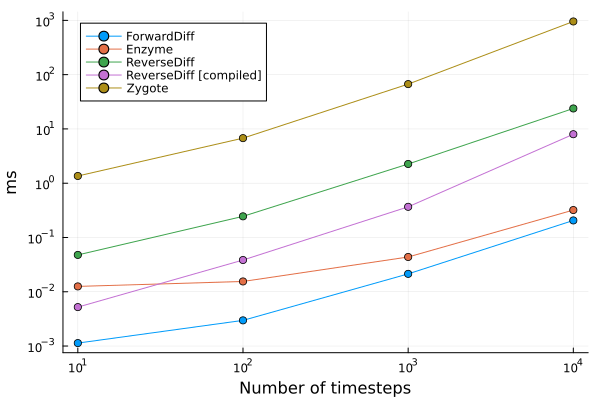
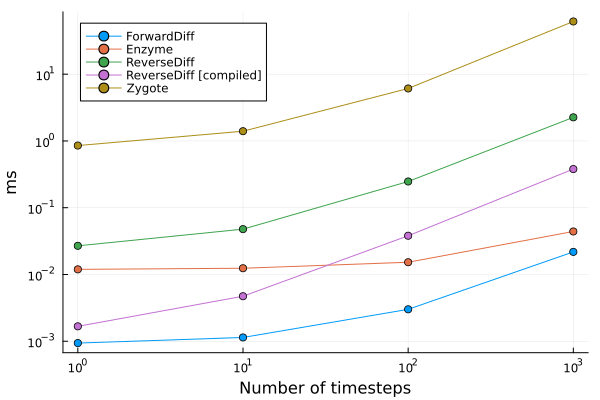
moved code to a module to make things nicer

diff --git a/README.md b/README.md
@@ -4,30 +4,35 @@ This is a quick and dirty set up for running some benchmarks on a few different 
 
 A "workflow" generally looks something like
 ```julia
-# Include the setup file.
-include("setup.jl")
+using TuringEnzymeCon2024
 
-# Include the examples.
-include("models.jl")
+# Needed to make Enzyme work.
+using Enzyme
+Enzyme.API.runtimeActivity!(true);
+Enzyme.API.typeWarning!(false);
+
+adbackends = TuringEnzymeCon2024.ADBACKENDS
+adbackends = [AutoEnzyme()]
 
 # Construct the example.
-example = SatelliteExample()
+example = TuringEnzymeCon2024.AR1Example()
+example = TuringEnzymeCon2024.SatelliteExample()
 
 # Construct the benchmark suite for different "complexity" arguments.
 suite = BenchmarkTools.BenchmarkGroup()
-for n in scalings(example)
-    model = make_model(example, n)
+for n in TuringEnzymeCon2024.scalings(example)
+    model = TuringEnzymeCon2024.make_model(example, n)
     @info "Making suite for $n"
-    suite[n] = make_turing_suite(
+    suite[string(n)] = TuringEnzymeCon2024.make_turing_suite(
         model;
-        adbackends=filter_adbackends(model, adbackends),
+        adbackends=TuringEnzymeCon2024.filter_adbackends(model, adbackends),
         check=true,
         error_on_failed_backend=true,
     )
 end
 
 # Run benchmark suite!
-results = run(suite; seconds=1, verbose=true)
+results = run(suite; seconds=60, verbose=true)
 
 # Visualize the results.
 plot_complexity_results(
